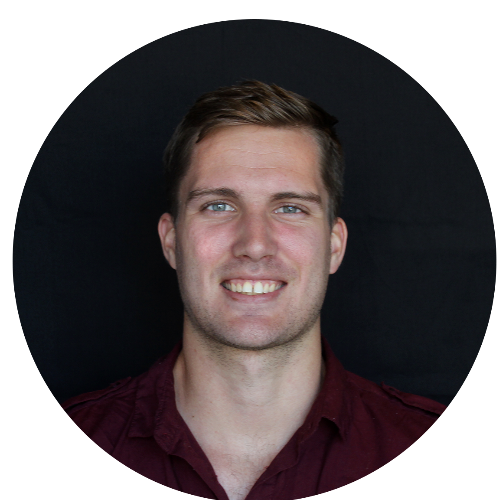
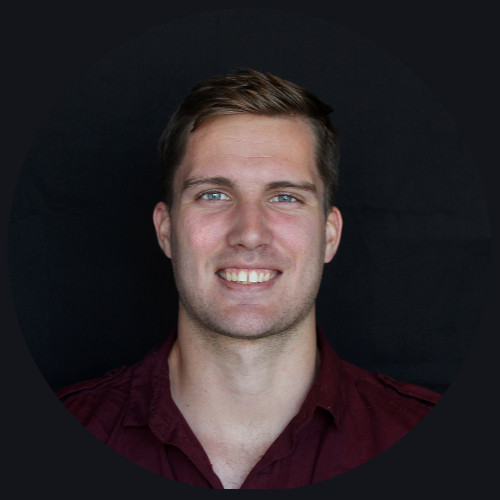
Touch up speakers section

diff --git a/assets/js/main.js b/assets/js/main.js
@@ -21,7 +21,7 @@ INFO = { 'Adriaan Rowan':
         'Design principles from a technology and human perspective will be disseminated with examples of current production systems and their impact. Furthermore, the audience will have the opportunity to advance these best practices.',
         'Resources will be made available, so the technology is relevant, practical, and accessible.' ],
      categoryInfoPath: './assets/speaker_data/chris_currin/category.txt',
-     category: 'NLP' },
+     category: 'Natural language processing' },
   'Dr. Herman Kamper':
    { imagePath: './assets/speaker_data/dr._herman_kamper/image.jpg',
      lectureInfoPath: './assets/speaker_data/dr._herman_kamper/lecture_info.txt',
@@ -195,7 +195,7 @@ function populateSpeakerInfo(info) {
                         ) // append to a
                     ) // append to figure
                     .append(
-                        $("<div />").addClass("col-xs-9")
+                        $("<div />").addClass("col-xs-9 col-xs-push-1")
                         .append(
                             $("<h4 />").text(speaker)
                         ) // heading div

diff --git a/assets/css/main.css b/assets/css/main.css
@@ -440,7 +440,7 @@ ul li {
   margin: 25px 0;
 }
 .speaker h4 {
-  text-align: left;
+  text-align: center;
   margin-left: 0.7em;
   margin-top: 15px;
   margin-bottom: 5px;
@@ -451,9 +451,16 @@ ul li {
 .speaker img {
   width: 60%;
   border-radius: 50%;
+  border: 0.5em solid #dadada;
+  box-shadow: 0.25em 0.25em 0.25em grey
 }
 .speaker img:hover {
-  opacity: .7;
+  border: 0.5em solid #ea531c;
+  cursor: pointer;
+  -webkit-transition: all 0.3s;
+   -moz-transition: all 0.3s;
+   -o-transition: all 0.3s;
+   transition: all 0.3s;
 }
 
 .speaker .modal {
